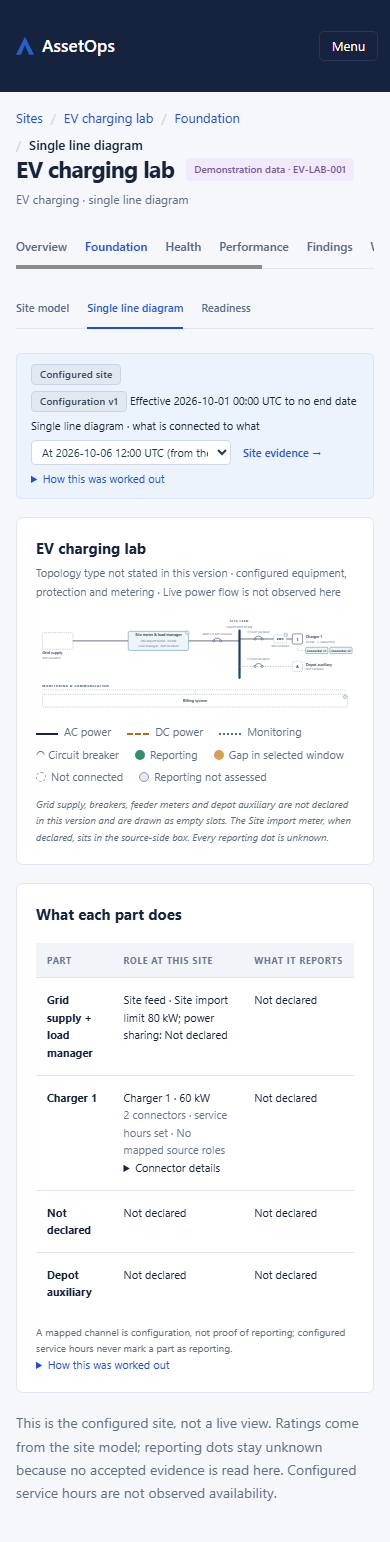
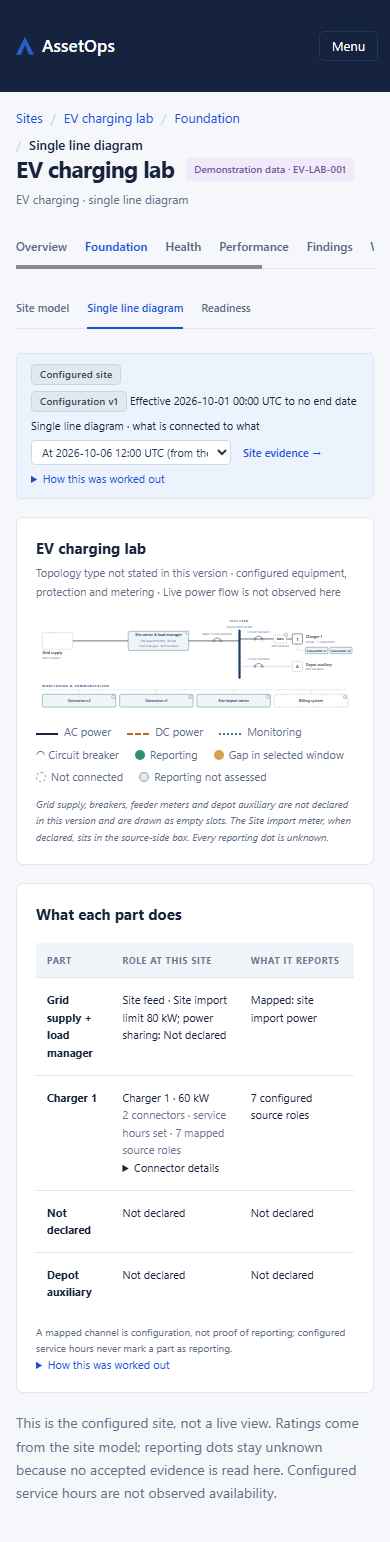
W2-05a: recapture ev-sld stocked; handoff run 7

diff --git a/.agent/W2-05a-phase-handoff.md b/.agent/W2-05a-phase-handoff.md
@@ -34,3 +34,10 @@ Merge W2-04 `0023` into this branch, create `0024_w2_ev_config` (`down_revision`
 - Recaptured ev-sld stocked and empty at 1440/390 (24/24 claims; same private-DB recipe, DB dropped, servers stopped). ev-sld-missing-role not recaptured (needs the gap binding revision; its parts table is unchanged in kind). Parts panel at 1440 app/mock: 370/287 = **1.29x** (was 1.47x; limit 1.30x). 390: no horizontal overflow.
 - Deviation for a ruling: the spec labels bindings `Configured mapping`, but the vocabulary scanner flags `mapping` outside the four exact phrases and the ruling forbids new exceptions. The disclosure label is `Configured source roles:` instead. If the Architect wants `Configured mapping`, a fifth exact allowlist phrase is needed.
 - Reporting column now shows `{n} configured source role(s)` / Not declared (no connector lines; those moved to the disclosure).
+
+## Run 7 (wording rulings, `D-2026-10-18-w2-05-buildspec` run-7 closure)
+- Applied: the **What it reports** cell now reads `{n} configured source role(s)` (deduplicated) for a declared charger, `No configured source roles` at zero (was `Not declared`), and `Not declared` only for an undeclared charger. The disclosure label stays `Configured source roles:` (zero reads `none`); `Configured mapping` is not added to the vocabulary allowlist. The five closed-row schedule words (`disabled`, `no service hours`, `service hours set`, `mixed schedules`, `no schedule declared`) were already as ruled in `scheduleState`, and are now asserted by a new test in `evFoundation.test.tsx` (all five, plus 5 roles and zero roles). No assertion weakened.
+- Checks: tsc clean; evFoundation 22/22; full `npm test` 86 files / 2204 passed; check-all 10/10.
+- Recaptured ev-sld stocked 1440/390 (12/12 claims, no overflow) at `at=2026-10-06T12Z` into `.agent/W2-05a-evidence/ev-sld-stocked-*`. Private DB from `python -m assetops_backend.sites.ev_lab --tenant demo` (run from `backend/` with PYTHONPATH on this worktree's `contracts`; the venv's `assetops_contracts` points at the main checkout and is stale). The binding set is recorded 5 minutes in the future, so wait 5 minutes before capture or bindings read as zero. API 9841 / web 6241 / CDP 9842; DB dropped, servers stopped. Stocked shows 7 configured source roles (7 deduplicated roles including Site import and connector power) and `Mapped: site import power` in the grid row.
+- Not recaptured: ev-sld-empty and ev-sld-missing-role (their parts tables hold only the unchanged zero-role/undeclared text; the empty case now reads `No configured source roles` for a declared charger with no bindings).
+- Commit 5 still waits for W2-04's 0023.
